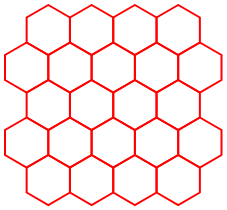
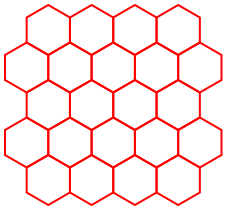
feat: generate SVG files to a file
- regenerate PNGs using built-in IntelliJ function

diff --git a/src/test/kotlin/uk/co/stevebosman/grid/ReadMeGenerator.kt b/src/test/kotlin/uk/co/stevebosman/grid/ReadMeGenerator.kt
@@ -9,40 +9,92 @@ import uk.co.stevebosman.grid.impl.uniform.squareOctagon2.SquareOctagon2GridGene
 import uk.co.stevebosman.grid.impl.uniform.squareOctagon2.SquareOctagon2GridOption
 import uk.co.stevebosman.grid.impl.uniform.triHexagonal.TriHexagonalGridGenerator
 import uk.co.stevebosman.grid.impl.uniform.triHexagonal.TriHexagonalGridOption
+import java.io.File
 
 fun main() {
-    println("Square Grid 5 x 5")
-    println(SquareGridGenerator.generate(5,5).toSvg());
+    // Square Grid 5 x 5
+    File("examples/square.svg").writeText(SquareGridGenerator.generate(5, 5).toSvg());
 
-    println("\nTriangular Grid 7 x 4 - Standard")
-    println(TriangleGridGenerator.generate(7,4, TriangleGridOption.STANDARD).toSvg(35));
-    println("\nTriangular Grid 7 x 4 - Offset")
-    println(TriangleGridGenerator.generate(7,4, TriangleGridOption.OFFSET).toSvg(35));
-    println("\nTriangular Grid 7 x 4 - Spiky")
-    println(TriangleGridGenerator.generate(7,4, TriangleGridOption.SPIKY).toSvg(35));
-    println("\nTriangular Grid 7 x 4 - Offset Spiky")
-    println(TriangleGridGenerator.generate(7,4, TriangleGridOption.OFFSET_SPIKY).toSvg(35));
-    println("\nTriangular Grid 4 x 5 - Triangle")
-    println(TriangleGridGenerator.generate(4,5, TriangleGridOption.TRIANGLE).toSvg(35));
+    // Triangular Grid 7 x 4 - Standard
+    File("examples/triangular.svg").writeText(
+        TriangleGridGenerator.generate(7, 4, TriangleGridOption.STANDARD).toSvg(35)
+    );
+    // Triangular Grid 7 x 4 - Offset
+    File("examples/triangular_offset.svg").writeText(
+        TriangleGridGenerator.generate(7, 4, TriangleGridOption.OFFSET).toSvg(35)
+    );
+    // Triangular Grid 7 x 4 - Spiky
+    File("examples/triangular_spiky.svg").writeText(
+        TriangleGridGenerator.generate(7, 4, TriangleGridOption.SPIKY).toSvg(35)
+    );
+    // Triangular Grid 7 x 4 - Offset Spiky
+    File("examples/triangular_offset_spiky.svg").writeText(
+        TriangleGridGenerator.generate(
+            7,
+            4,
+            TriangleGridOption.OFFSET_SPIKY
+        ).toSvg(35)
+    );
+    // Triangular Grid 4 x 5 - Triangle
+    File("examples/triangular_triangle.svg").writeText(
+        TriangleGridGenerator.generate(4, 5, TriangleGridOption.TRIANGLE).toSvg(35)
+    );
 
-    println("\nHex Grid 5 x 5 - Standard")
-    println(HexGridGenerator.generate(5,5, HexGridOption.STANDARD).toSvg());
-    println("\nHex Grid 5 x 5 - Standard Skip Last")
-    println(HexGridGenerator.generate(5,5, HexGridOption.STANDARD_SKIP_LAST).toSvg());
-    println("\nHex Grid 5 x 5 - Offset")
-    println(HexGridGenerator.generate(5,5, HexGridOption.OFFSET).toSvg());
-    println("\nHex Grid 5 x 5 - Offset Skip Last")
-    println(HexGridGenerator.generate(5,5, HexGridOption.OFFSET_SKIP_LAST).toSvg());
-    println("\nHex Grid 5 x 5 - Triangle")
-    println(HexGridGenerator.generate(5,5, HexGridOption.TRIANGLE).toSvg());
+    // Hex Grid 5 x 5 - Standard
+    File("examples/hexagonal_standard.svg")
+        .writeText(HexGridGenerator.generate(5, 5, HexGridOption.STANDARD).toSvg());
+    // Hex Grid 5 x 5 - Standard Skip Last
+    File("examples/hexagonal_standard_skip_last.svg").writeText(
+        HexGridGenerator.generate(
+            5,
+            5,
+            HexGridOption.STANDARD_SKIP_LAST
+        ).toSvg()
+    );
+    // Hex Grid 5 x 5 - Offset
+    File("examples/hexagonal_offset.svg").writeText(HexGridGenerator.generate(5, 5, HexGridOption.OFFSET).toSvg());
+    // Hex Grid 5 x 5 - Offset Skip Last
+    File("examples/hexagonal_offset_skip_last.svg").writeText(
+        HexGridGenerator.generate(
+            5,
+            5,
+            HexGridOption.OFFSET_SKIP_LAST
+        ).toSvg()
+    );
+    // Hex Grid 5 x 5 - Triangle
+    File("examples/hexagonal_triangle.svg").writeText(HexGridGenerator.generate(5, 5, HexGridOption.TRIANGLE).toSvg());
 
-    println("\nTruncated Square Grid 5 x 5 - Start Octagon")
-    println(SquareOctagon2GridGenerator.generate(5,5, SquareOctagon2GridOption.START_OCTAGON).toSvg());
-    println("\nTruncated Square Grid 5 x 5 - Start Square")
-    println(SquareOctagon2GridGenerator.generate(5,5, SquareOctagon2GridOption.START_SQUARE).toSvg());
+    // Truncated Square Grid 5 x 5 - Start Octagon
+    File("examples/truncated_square_start_octagon.svg").writeText(
+        SquareOctagon2GridGenerator.generate(
+            5,
+            5,
+            SquareOctagon2GridOption.START_OCTAGON
+        ).toSvg()
+    );
+    // Truncated Square Grid 5 x 5 - Start Square
+    File("examples/truncated_square_start_square.svg").writeText(
+        SquareOctagon2GridGenerator.generate(
+            5,
+            5,
+            SquareOctagon2GridOption.START_SQUARE
+        ).toSvg()
+    );
 
-    println("\nTri Hexagonal Grid 7 x 5 - Start Hexagon")
-    println(TriHexagonalGridGenerator.generate(7,5, TriHexagonalGridOption.START_HEXAGON).toSvg());
-    println("\nTri Hexagonal Grid 7 x 5 - Start Triangles")
-    println(TriHexagonalGridGenerator.generate(7,5, TriHexagonalGridOption.START_TRIANGLES).toSvg());
+    // Tri Hexagonal Grid 7 x 5 - Start Hexagon
+    File("examples/trihexagonal.svg").writeText(
+        TriHexagonalGridGenerator.generate(
+            7,
+            5,
+            TriHexagonalGridOption.START_HEXAGON
+        ).toSvg()
+    );
+    // Tri Hexagonal Grid 7 x 5 - Start Triangles
+    File("examples/trihexagonal_triangles.svg").writeText(
+        TriHexagonalGridGenerator.generate(
+            7,
+            5,
+            TriHexagonalGridOption.START_TRIANGLES
+        ).toSvg()
+    );
 }

diff --git a/src/main/kotlin/uk/co/stevebosman/grid/Grid.kt b/src/main/kotlin/uk/co/stevebosman/grid/Grid.kt
@@ -21,7 +21,7 @@ data class Grid(
         result.append(" xmlns=\"http://www.w3.org/2000/svg\" xmlns:xlink=\"http://www.w3.org/1999/xlink\">\n")
 
         cells.values.forEach { c ->
-            result.append("<polyline points=\"")
+            result.append("    <polyline points=\"")
             result.append(c.getPolygon().vertices.joinToString(" ") { v -> coordinates(v) })
             result.append(" " + coordinates(c.getPolygon().vertices.first()))
             result.append("\" stroke=\"red\" stroke-linecap=\"round\" stroke-width=\"2\" fill=\"none\" />\n")
